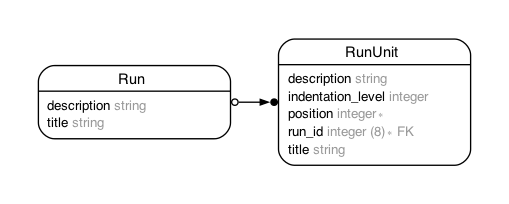
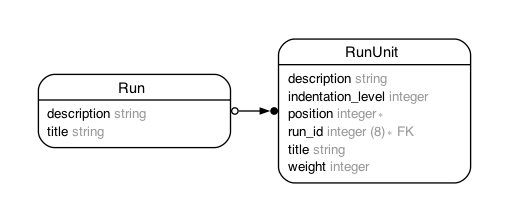
Add weight to RunUnit

diff --git a/db/schema.rb b/db/schema.rb
@@ -10,7 +10,7 @@
 #
 # It's strongly recommended that you check this file into your version control system.
 
-ActiveRecord::Schema[7.1].define(version: 2024_05_28_205918) do
+ActiveRecord::Schema[7.1].define(version: 2024_05_30_000653) do
   # These are extensions that must be enabled in order to support this database
   enable_extension "plpgsql"
 
@@ -22,6 +22,7 @@ ActiveRecord::Schema[7.1].define(version: 2024_05_28_205918) do
     t.datetime "created_at", null: false
     t.datetime "updated_at", null: false
     t.integer "position", null: false
+    t.integer "weight", default: 5
     t.index ["run_id", "position"], name: "index_run_units_on_run_id_and_position", unique: true
     t.index ["run_id"], name: "index_run_units_on_run_id"
   end

diff --git a/app/models/run_unit.rb b/app/models/run_unit.rb
@@ -7,6 +7,7 @@
 #  indentation_level :integer          default(0)
 #  position          :integer          not null
 #  title             :string
+#  weight            :integer          default(5)
 #  created_at        :datetime         not null
 #  updated_at        :datetime         not null
 #  run_id            :bigint           not null

diff --git a/spec/models/run_unit_spec.rb b/spec/models/run_unit_spec.rb
@@ -7,6 +7,7 @@
 #  indentation_level :integer          default(0)
 #  position          :integer          not null
 #  title             :string
+#  weight            :integer          default(5)
 #  created_at        :datetime         not null
 #  updated_at        :datetime         not null
 #  run_id            :bigint           not null

diff --git a/db/migrate/20240530000653_add_weight_to_run_unit.rb b/db/migrate/20240530000653_add_weight_to_run_unit.rb
@@ -1,0 +1,5 @@
+class AddWeightToRunUnit < ActiveRecord::Migration[7.1]
+  def change
+    add_column :run_units, :weight, :integer, default: 5
+  end
+end
